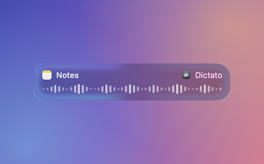
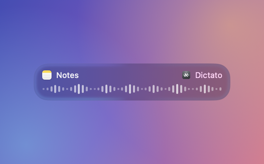
fix: keep the panel's corners still while the glow travels
The glow is a masked stroke that is then blurred, and the blur threw light
well past the edge it was masked to. Nothing held that light to the card's
rounded corners, only to the window's square ones, so wherever the bright part
of the glow was passing it filled the corner and the card looked like it had a
larger radius on that side. Clipping the glow to the card's own shape pins the
outline, so only the brightness moves.

Measured from screen captures at eight points around one trip: tracing the
card's left edge down through the top-left corner, the traces disagreed by up
to 30 pixels (15 points) before and 3 pixels (1.5 points) after, which is
antialiasing on the topmost row.

The glow is also thinner and dimmer: 4 to 2 points wide, 80 to 45 percent
bright, so it reads as a moving highlight rather than a coloured band. The
Recording display picture is re-shot to match.

Changed region(s): [[0.1212, 0.3963, 0.4545, 0.6098]]

diff --git a/Sources/Dictato/Overlay/OverlayView.swift b/Sources/Dictato/Overlay/OverlayView.swift
@@ -191,6 +191,13 @@ struct OverlayView: View {
             }
             .mask(shape.strokeBorder(lineWidth: UITuning.panelGlowWidth * 2))
             .blur(radius: UITuning.panelGlowWidth)
+            // The blur throws light well past the edge it was masked to. Nothing held it
+            // to the card's rounded corners, only to the window's square ones, so
+            // wherever the bright part of the glow happened to be it filled the corner
+            // and the card looked like it had a bigger radius on that side. Cutting the
+            // glow to the card's own shape pins the outline and leaves only the
+            // brightness travelling.
+            .clipShape(shape)
             .opacity(UITuning.panelGlowOpacity * (0.7 + 0.3 * level))
             .allowsHitTesting(false)
             .onAppear {

diff --git a/Sources/Dictato/UITuning.swift b/Sources/Dictato/UITuning.swift
@@ -64,8 +64,8 @@ enum UITuning {
         ("panelTextHeight", 78, "recording panel height once live text is showing"),
         ("panelCorner", 22, "recording panel corner radius"),
         ("panelBorderOpacity", 6, "recording panel border strength, in percent"),
-        ("panelGlowWidth", 4, "thickness of the glow that travels around the panel"),
-        ("panelGlowOpacity", 80, "brightness of the travelling glow, in percent"),
+        ("panelGlowWidth", 2, "thickness of the glow that travels around the panel"),
+        ("panelGlowOpacity", 45, "brightness of the travelling glow, in percent"),
         ("panelGlowSeconds", 7, "seconds for the glow to go once around the panel"),
 
         // Notch bar: the strip that merges with the camera notch.
